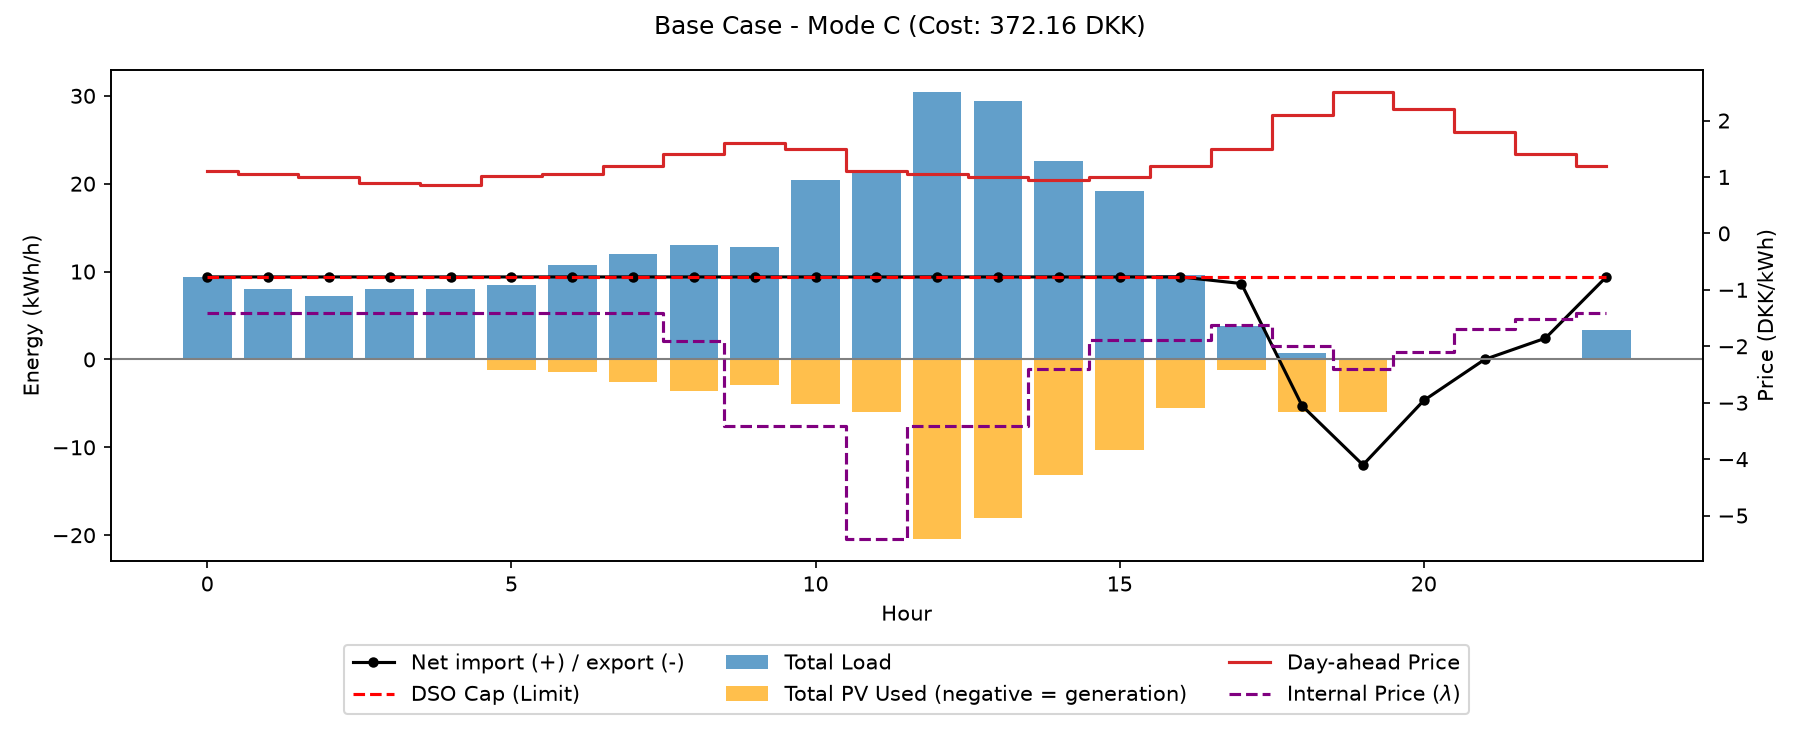
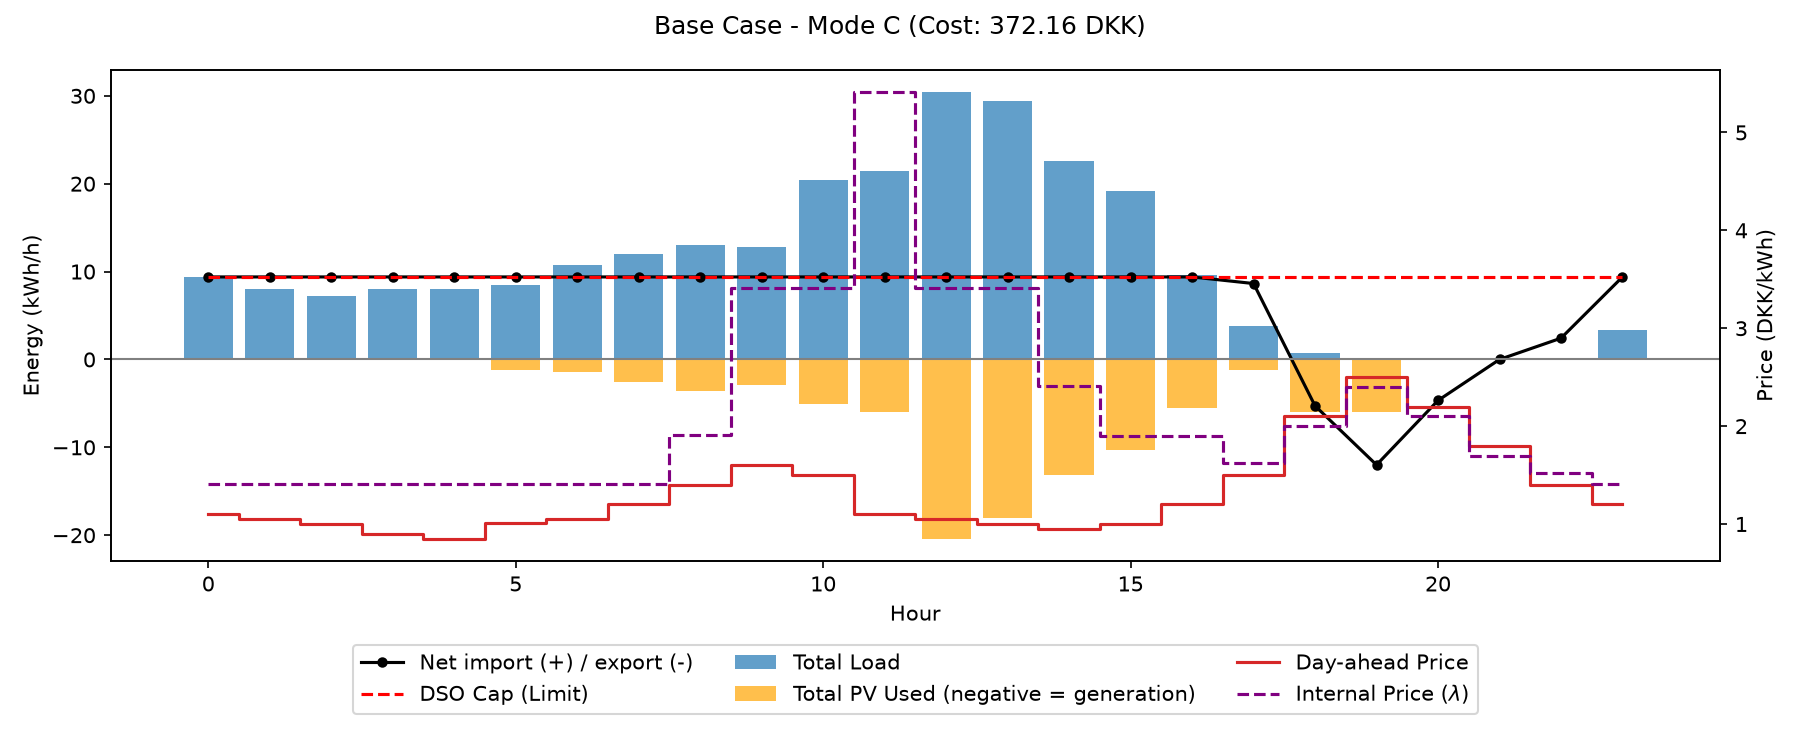
Add result file for Q1, and move sensitivity file

diff --git a/main.py b/main.py
@@ -1,6 +1,7 @@
 """Entry point of the Assignment 2 starter package: load a community and summarize it.
 
     python main.py                                   # base case (16 members), day d1
+    python main.py --sensitivity                     # run the sensitivity analyses (discount, penalty, capacity)
     python main.py --community my_mix                # your own data/params_community_my_mix.json
     python main.py --day d4                          # another day of the week (and that day's cap)
     python main.py --members                         # also print every member's Assignment 1 summary
@@ -12,13 +13,48 @@ models of the assignment (R, I, C, DP, ...) on top of it, one function per exper
 from __future__ import annotations
 
 import argparse
+import csv
 from pathlib import Path
 
 from src.data_loader import load_community, list_communities
 from src.model import EnergyCommunityModel
 from src.plotting import plot_community_schedule
+from src.sensitivity import run_cap_sensitivity, run_discount_sensitivity, run_penalty_sensitivity
 
 RESULTS_DIR = Path(__file__).resolve().parent / "results"
+
+
+def write_cost_breakdown_csv(results_by_mode, output_path):
+    """Write consumer costs and model-level settlement values to a CSV file."""
+    fieldnames = [
+        "model",
+        "row_type",
+        "consumer_id",
+        "consumer_cost_DKK",
+        "objective_value_DKK",
+        "external_grid_cost_DKK",
+        "manager_balance_DKK",
+        "system_cost_check_DKK",
+    ]
+    with output_path.open("w", newline="") as csv_file:
+        writer = csv.DictWriter(csv_file, fieldnames=fieldnames)
+        writer.writeheader()
+        for mode, result in results_by_mode.items():
+            for consumer_id, cost in result["consumer_costs"].items():
+                writer.writerow({
+                    "model": mode,
+                    "row_type": "CONSUMER",
+                    "consumer_id": consumer_id,
+                    "consumer_cost_DKK": f"{cost:.6f}",
+                })
+            writer.writerow({
+                "model": mode,
+                "row_type": "SUMMARY",
+                "objective_value_DKK": f"{result['objective_value']:.6f}",
+                "external_grid_cost_DKK": f"{result['external_grid_cost']:.6f}",
+                "manager_balance_DKK": f"{result['manager_balance']:.6f}",
+                "system_cost_check_DKK": f"{result['system_cost_check']:.6f}",
+            })
 
 def run_q1_base_comparison(com_data, results_dir=RESULTS_DIR):
     """Experiment 1: Compare R, I, and C models on the base case data."""
@@ -44,6 +80,11 @@ def run_q1_base_comparison(com_data, results_dir=RESULTS_DIR):
     model_c.build_model()
     res_c = model_c.solve()
     plot_community_schedule(model_c, res_c, title="Base Case", save_to=results_dir / "Q1_Model_C_Schedule.png")
+
+    cost_results = {"R": res_r, "I": res_i, "C": res_c}
+    cost_csv = results_dir / "Q1_cost_breakdown.csv"
+    write_cost_breakdown_csv(cost_results, cost_csv)
+    print(f"Cost breakdown CSV: {cost_csv}")
     
     # Print the cost comparison
     print("\n--- Results Summary (Total Cost) ---")
@@ -52,8 +93,9 @@ def run_q1_base_comparison(com_data, results_dir=RESULTS_DIR):
     print(f"Model C: {res_c['objective_value']:.2f} DKK")
     
     # Display the extracted dual variables (internal prices) from Model C
-    print(f"\nModel C Internal Prices (first 5 hours):")
-    print([round(p, 3) for p in res_c['internal_prices'][:5]])
+    print("Model C Internal Prices:")
+    for hour, price in enumerate(res_c["internal_prices"]):
+        print(f"Hour {hour:02d}: {price:.3f} DKK/kWh")
 
 def main() -> None:
     ap = argparse.ArgumentParser(description=__doc__, formatter_class=argparse.RawDescriptionHelpFormatter)
@@ -61,6 +103,7 @@ def main() -> None:
     ap.add_argument("--day", default="d1", help="d1 (base case) ... d7")
     ap.add_argument("--members", action="store_true", help="print the Assignment 1 summary of every member")
     ap.add_argument("--demo", action="store_true", help="run the scenario-generation demonstration")
+    ap.add_argument("--sensitivity", action="store_true", help="run tariff, penalty, and capacity sensitivity analyses")
     args = ap.parse_args()
 
     com = load_community(args.community, day=args.day)
@@ -79,6 +122,13 @@ def main() -> None:
 
     # Execute the Q1 experiment
     run_q1_base_comparison(com, out_dir)
+    if args.sensitivity:
+        sensitivity_dir = RESULTS_DIR / "base_sensitivity"
+        sensitivity_dir.mkdir(parents=True, exist_ok=True)
+        run_discount_sensitivity(com, sensitivity_dir)
+        run_penalty_sensitivity(com, sensitivity_dir)
+        run_cap_sensitivity(com, sensitivity_dir)
+        print(f"Sensitivity analysis complete. Check the '{sensitivity_dir.relative_to(Path.cwd())}' folder for plots.")
     if args.demo:
         import runpy
         runpy.run_module("src.scenario_generation", run_name="__main__")

diff --git a/src/model.py b/src/model.py
@@ -182,8 +182,9 @@ class EnergyCommunityModel:
             
             # Community energy balance (Crucial for extracting internal prices / duals later)
             self.con["community_balance"] = self.m.addConstrs(
-                (gp.quicksum(l[i, t] + p_ch[i, t] - g[i, t] - p_dis[i, t] for i in range(len(self.members))) 
-                 + P_exp[t] == P_imp[t] for t in self.T),
+                (P_imp[t] - P_exp[t]
+                 - gp.quicksum(l[i, t] + p_ch[i, t] - g[i, t] - p_dis[i, t]
+                               for i in range(len(self.members))) == 0 for t in self.T),
                 name="community_balance"
             )
 
@@ -253,13 +254,86 @@ class EnergyCommunityModel:
             "status": "Optimal"
         }
         
-        # For Model C, extract the internal clearing prices (Shadow prices / Dual variables)
+        # Extract internal clearing prices for Model C before calculating settlements.
+        internal_prices = None
         if self.mode == "C":
             internal_prices = []
             for t in self.T:
-                # Retrieve the Pi attribute (shadow price) of the community balance constraint
-                pi = self.con["community_balance"][t].Pi
-                internal_prices.append(pi)
+                # The balance is written as import - export - net demand = 0,
+                # so the equality dual is the positive marginal price.
+                internal_prices.append(self.con["community_balance"][t].Pi)
             results["internal_prices"] = internal_prices
+
+        results.update(self._cost_breakdown(internal_prices))
             
         return results
+
+    def _cost_breakdown(self, internal_prices=None):
+        """Return per-consumer costs and the manager settlement balance."""
+        consumer_costs = {}
+        internal_cost_total = 0.0
+
+        for i, member in enumerate(self.members):
+            internal_cost = sum(
+                member.linear_disutility * self.var["dev"][i, t].X
+                + member.pv_marginal_cost * self.var["pv"][i, t].X
+                for t in self.T
+            )
+            internal_cost_total += internal_cost
+
+            if self.mode == "R":
+                grid_cost = sum(
+                    (member.energy_price[t] + member.import_tariff) * self.var["q_imp"][i, t].X
+                    - (member.energy_price[t] - member.export_tariff) * self.var["q_exp"][i, t].X
+                    for t in self.T
+                )
+                consumer_costs[member.consumer_id] = internal_cost + grid_cost
+            elif self.mode == "I":
+                grid_cost = sum(
+                    member.energy_price[t] * self.var["q_imp"][i, t].X
+                    - (member.energy_price[t] - (1 - self.discount) * member.export_tariff) * self.var["q_exp"][i, t].X
+                    + (1 - self.discount) * member.import_tariff * self.var["q_below"][i, t].X
+                    + self.penalty * self.var["q_exc"][i, t].X
+                    for t in self.T
+                )
+                consumer_costs[member.consumer_id] = internal_cost + grid_cost
+
+        if self.mode == "C":
+            external_grid_cost = sum(
+                self.data.energy_price[t] * self.var["P_imp"][t].X
+                - (self.data.energy_price[t] - (1 - self.discount) * self.data.export_tariff) * self.var["P_exp"][t].X
+                + (1 - self.discount) * self.data.import_tariff * self.var["P_below"][t].X
+                + self.penalty * self.var["P_exc"][t].X
+                for t in self.T
+            )
+            settlement = 0.0
+            for i, member in enumerate(self.members):
+                consumer_settlement = sum(
+                    internal_prices[t] * (
+                        self.var["load"][i, t].X
+                        + self.var["p_ch"][i, t].X
+                        - self.var["pv"][i, t].X
+                        - self.var["p_dis"][i, t].X
+                    )
+                    for t in self.T
+                )
+                consumer_costs[member.consumer_id] = (
+                    sum(
+                        member.linear_disutility * self.var["dev"][i, t].X
+                        + member.pv_marginal_cost * self.var["pv"][i, t].X
+                        for t in self.T
+                    )
+                    + consumer_settlement
+                )
+                settlement += consumer_settlement
+            manager_balance = settlement - external_grid_cost
+        else:
+            external_grid_cost = sum(consumer_costs.values()) - internal_cost_total
+            manager_balance = 0.0
+
+        return {
+            "consumer_costs": consumer_costs,
+            "external_grid_cost": external_grid_cost,
+            "manager_balance": manager_balance,
+            "system_cost_check": sum(consumer_costs.values()) - manager_balance,
+        }

diff --git a/src/sensitivity.py b/src/sensitivity.py
@@ -3,10 +3,7 @@ from pathlib import Path
 import matplotlib.pyplot as plt
 import numpy as np
 
-from src.data_loader import load_community
 from src.model import EnergyCommunityModel
-
-RESULTS_DIR = Path(__file__).resolve().parent / "results"
 
 def run_discount_sensitivity(com_data, out_dir: Path):
     """Analyze how changing the tariff discount (beta) affects total costs."""
@@ -91,17 +88,3 @@ def run_cap_sensitivity(com_data, out_dir: Path):
     plt.legend()
     plt.savefig(out_dir / "Sensitivity_Cap.png", dpi=150)
     plt.close()
-
-
-if __name__ == "__main__":
-    # Setup data and output directory
-    com = load_community("base", day="d1")
-    out_dir = RESULTS_DIR / "base_sensitivity"
-    out_dir.mkdir(parents=True, exist_ok=True)
-    
-    # Run all three experiments
-    run_discount_sensitivity(com, out_dir)
-    run_penalty_sensitivity(com, out_dir)
-    run_cap_sensitivity(com, out_dir)
-    
-    print(f"Sensitivity analysis complete. Check the '{out_dir.relative_to(Path.cwd())}' folder for plots.")
